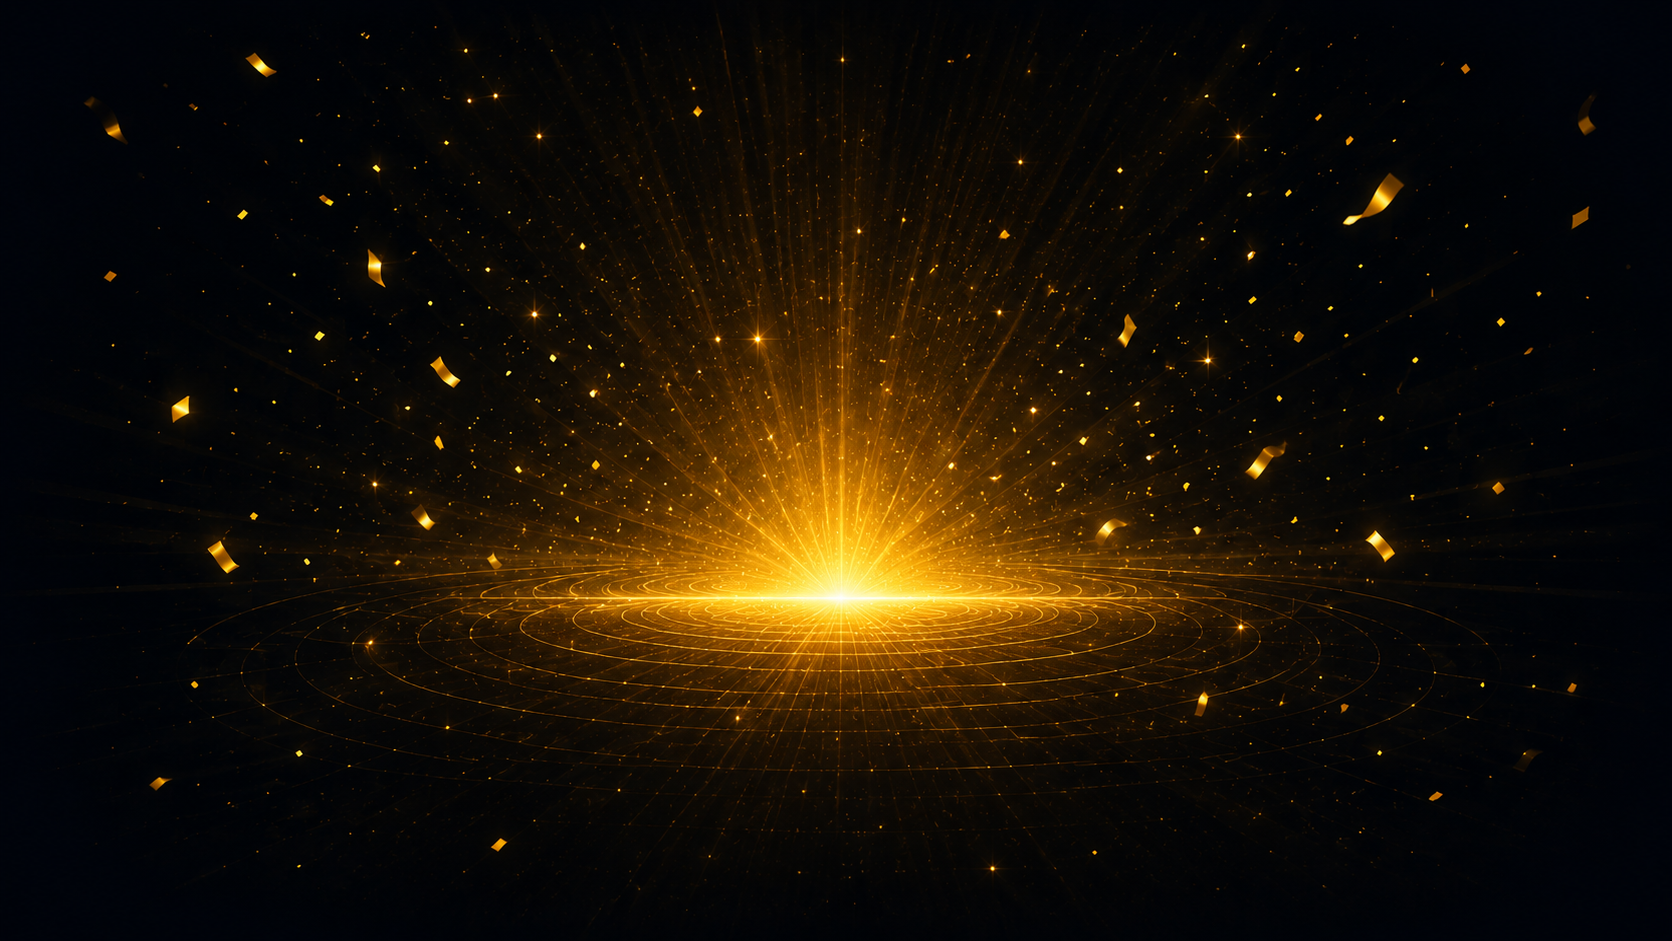
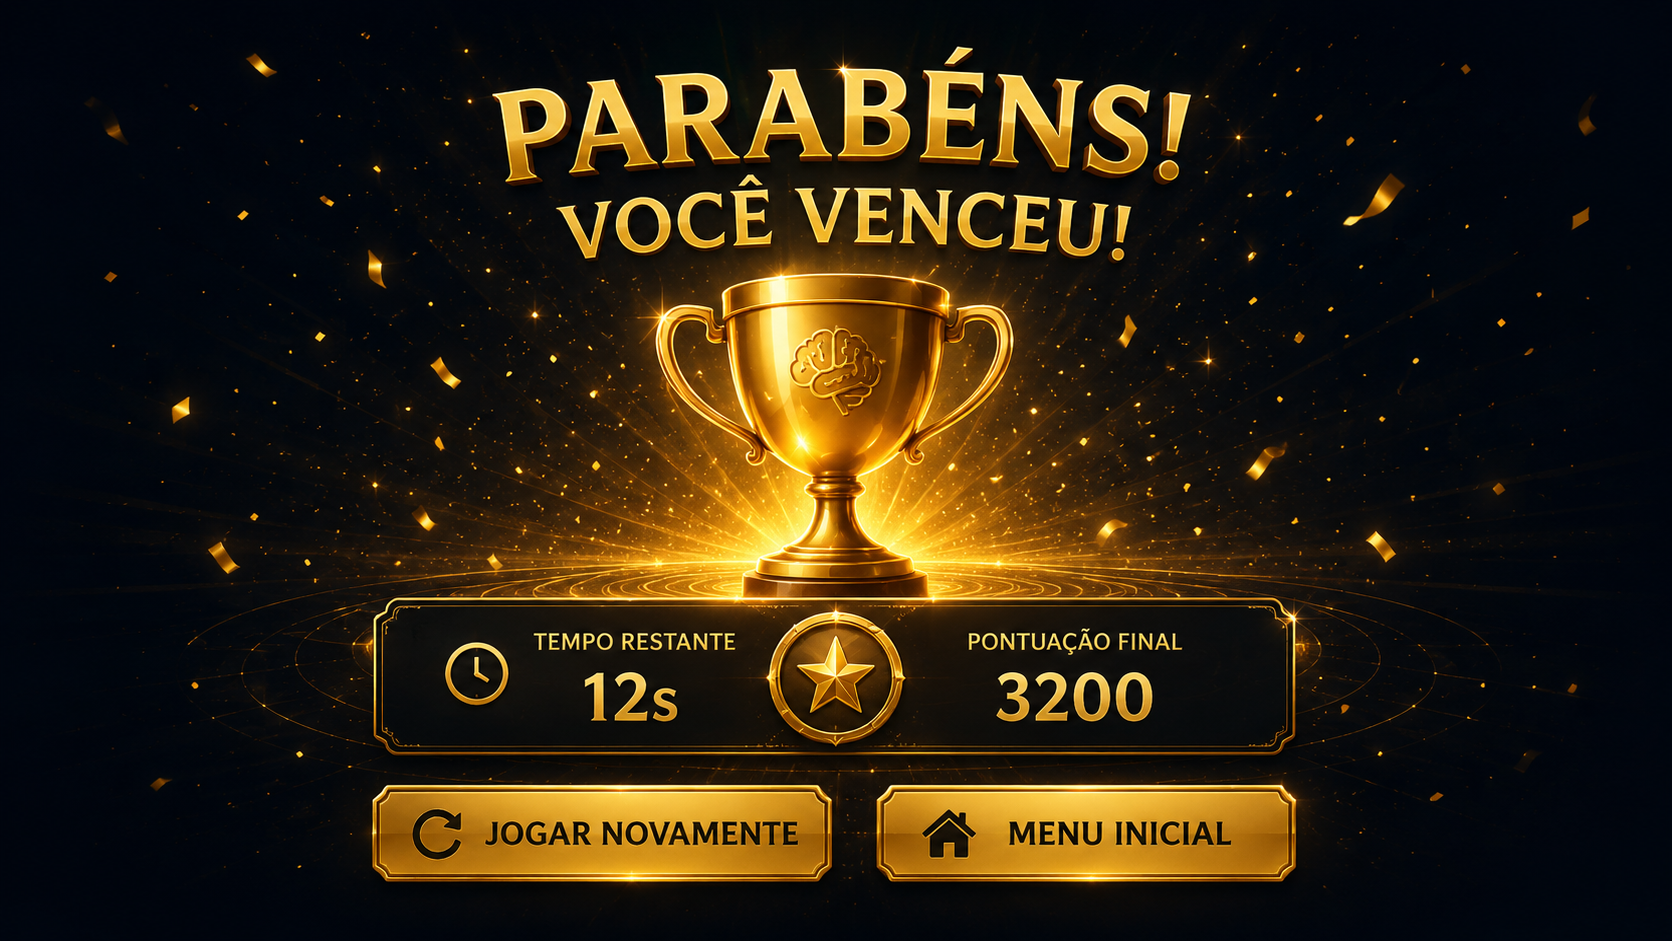
Add files via upload

diff --git a/script.js b/script.js
@@ -54,5 +54,28 @@ function startGame(){reset();show(gameScreen);const cards=[...document.querySele
 function tick(){updateTimerRing();timerId=setInterval(()=>{time--;timerEl.textContent=time;updateTimerRing();if(time<=10)timerEl.style.color='#ffd24d';if(time<=0){end(false)}},1000)}
 function flip(card){if(!canPlay||lock||card.classList.contains('flipped')||card.classList.contains('matched'))return;card.classList.add('flipped');flipped.push(card);if(flipped.length===2)check()}
 function check(){lock=true;const [a,b]=flipped;if(a.dataset.icon===b.dataset.icon){a.classList.add('correct');b.classList.add('correct');const points=getMatchPoints();score+=points;pairs++;if(scoreEl) scoreEl.textContent=fmt(score);pairsEl.textContent=pairs+'/8';setTimeout(()=>{a.classList.add('matched');b.classList.add('matched');flipped=[];lock=false;if(pairs===8){const bonus=getFinishBonus();score+=bonus;if(scoreEl) scoreEl.textContent=fmt(score);end(true)}},650)}else{a.classList.add('wrong');b.classList.add('wrong');setTimeout(()=>{a.classList.remove('flipped','wrong');b.classList.remove('flipped','wrong');flipped=[];lock=false},850)}}
-function end(win){clearInterval(timerId);canPlay=false;finalScore.textContent=fmt(score);if(finalTime) finalTime.textContent=Math.max(0,time);if(win){resultTitle.textContent='PARABÉNS!';resultText.textContent='VOCÊ VENCEU!'}else{resultTitle.textContent='TEMPO ESGOTADO!';resultText.textContent='TENTE NOVAMENTE!'}show(resultScreen)}
+function end(win){
+clearInterval(timerId);
+canPlay=false;
+finalScore.textContent=fmt(score);
+if(finalTime) finalTime.textContent=Math.max(0,time);
+
+const resultScreenEl = document.getElementById('resultScreen');
+
+if(win){
+resultTitle.textContent='PARABÉNS!';
+resultText.textContent='VOCÊ VENCEU!';
+if(resultScreenEl){
+resultScreenEl.style.backgroundImage="url('./assets/result-victory-reference.png')";
+}
+}else{
+resultTitle.textContent='TENTE NOVAMENTE!';
+resultText.textContent='VOCÊ PERDEU!';
+if(resultScreenEl){
+resultScreenEl.style.backgroundImage="url('./assets/result-lost-reference.jpg')";
+}
+}
+
+show(resultScreen)
+}
 document.getElementById('startButton').onclick=startGame;document.getElementById('homeButton').onclick=()=>show(startScreen);document.getElementById('playAgain').onclick=startGame;document.getElementById('menuButton').onclick=()=>show(startScreen);
